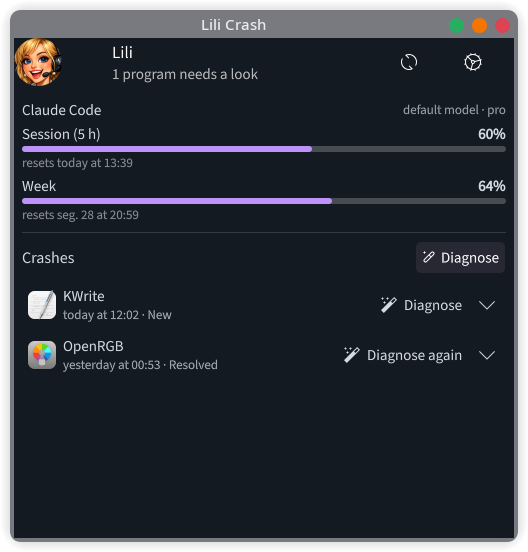
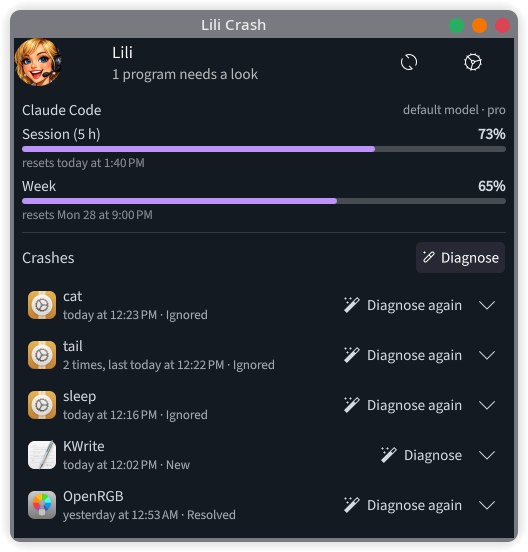
Screenshots and README caption in English

diff --git a/README.md b/README.md
@@ -38,8 +38,9 @@ out of memory, looks at recent updates, and then writes you a report: **what
 happened, what caused it, whether any of your work was lost, and whether it will
 happen again.**
 
-It answers in your language. Below, it's answering in Brazilian Portuguese, and it
-found out that this "crash" was actually caused on purpose, by a test.
+It answers in your language. In the example below it found out that this "crash" was
+actually caused on purpose, by a test, and even suggested an improvement to Lili
+herself, offering to open an issue for it.
 
 <p align="center"><img src="assets/screenshots/diagnosis.png" alt="The AI investigating the crash and writing a report"></p>
 
